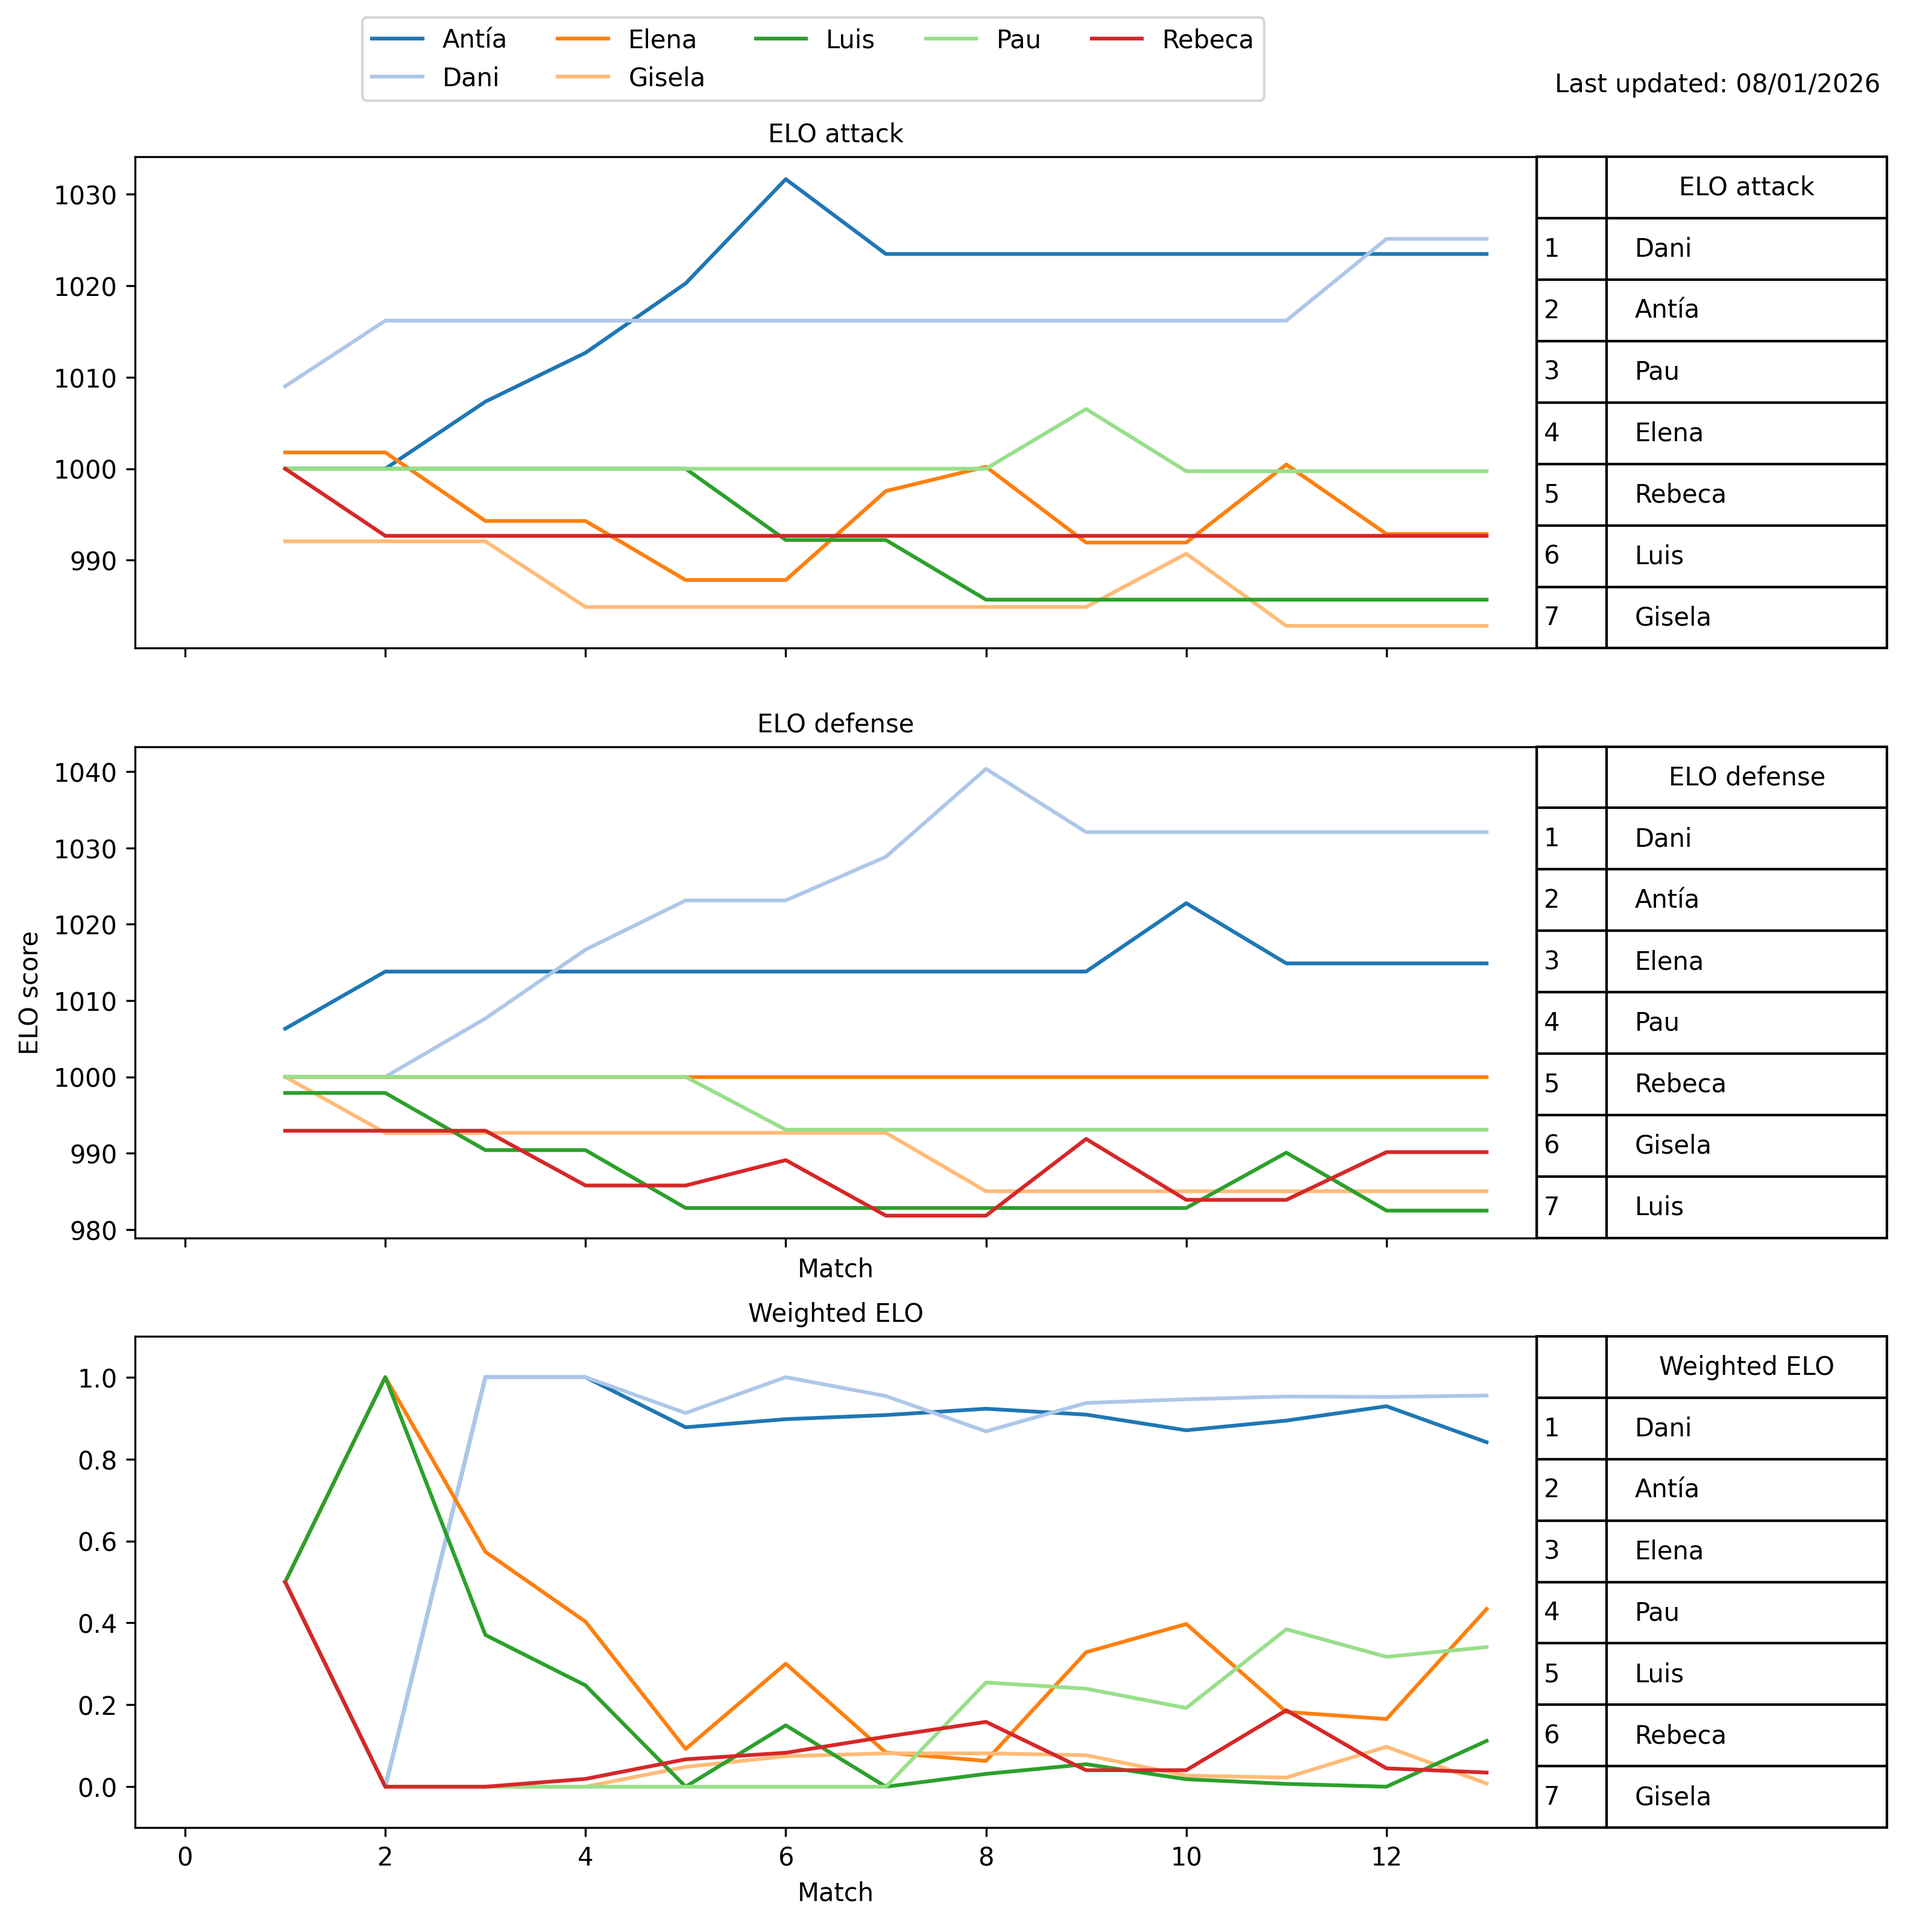
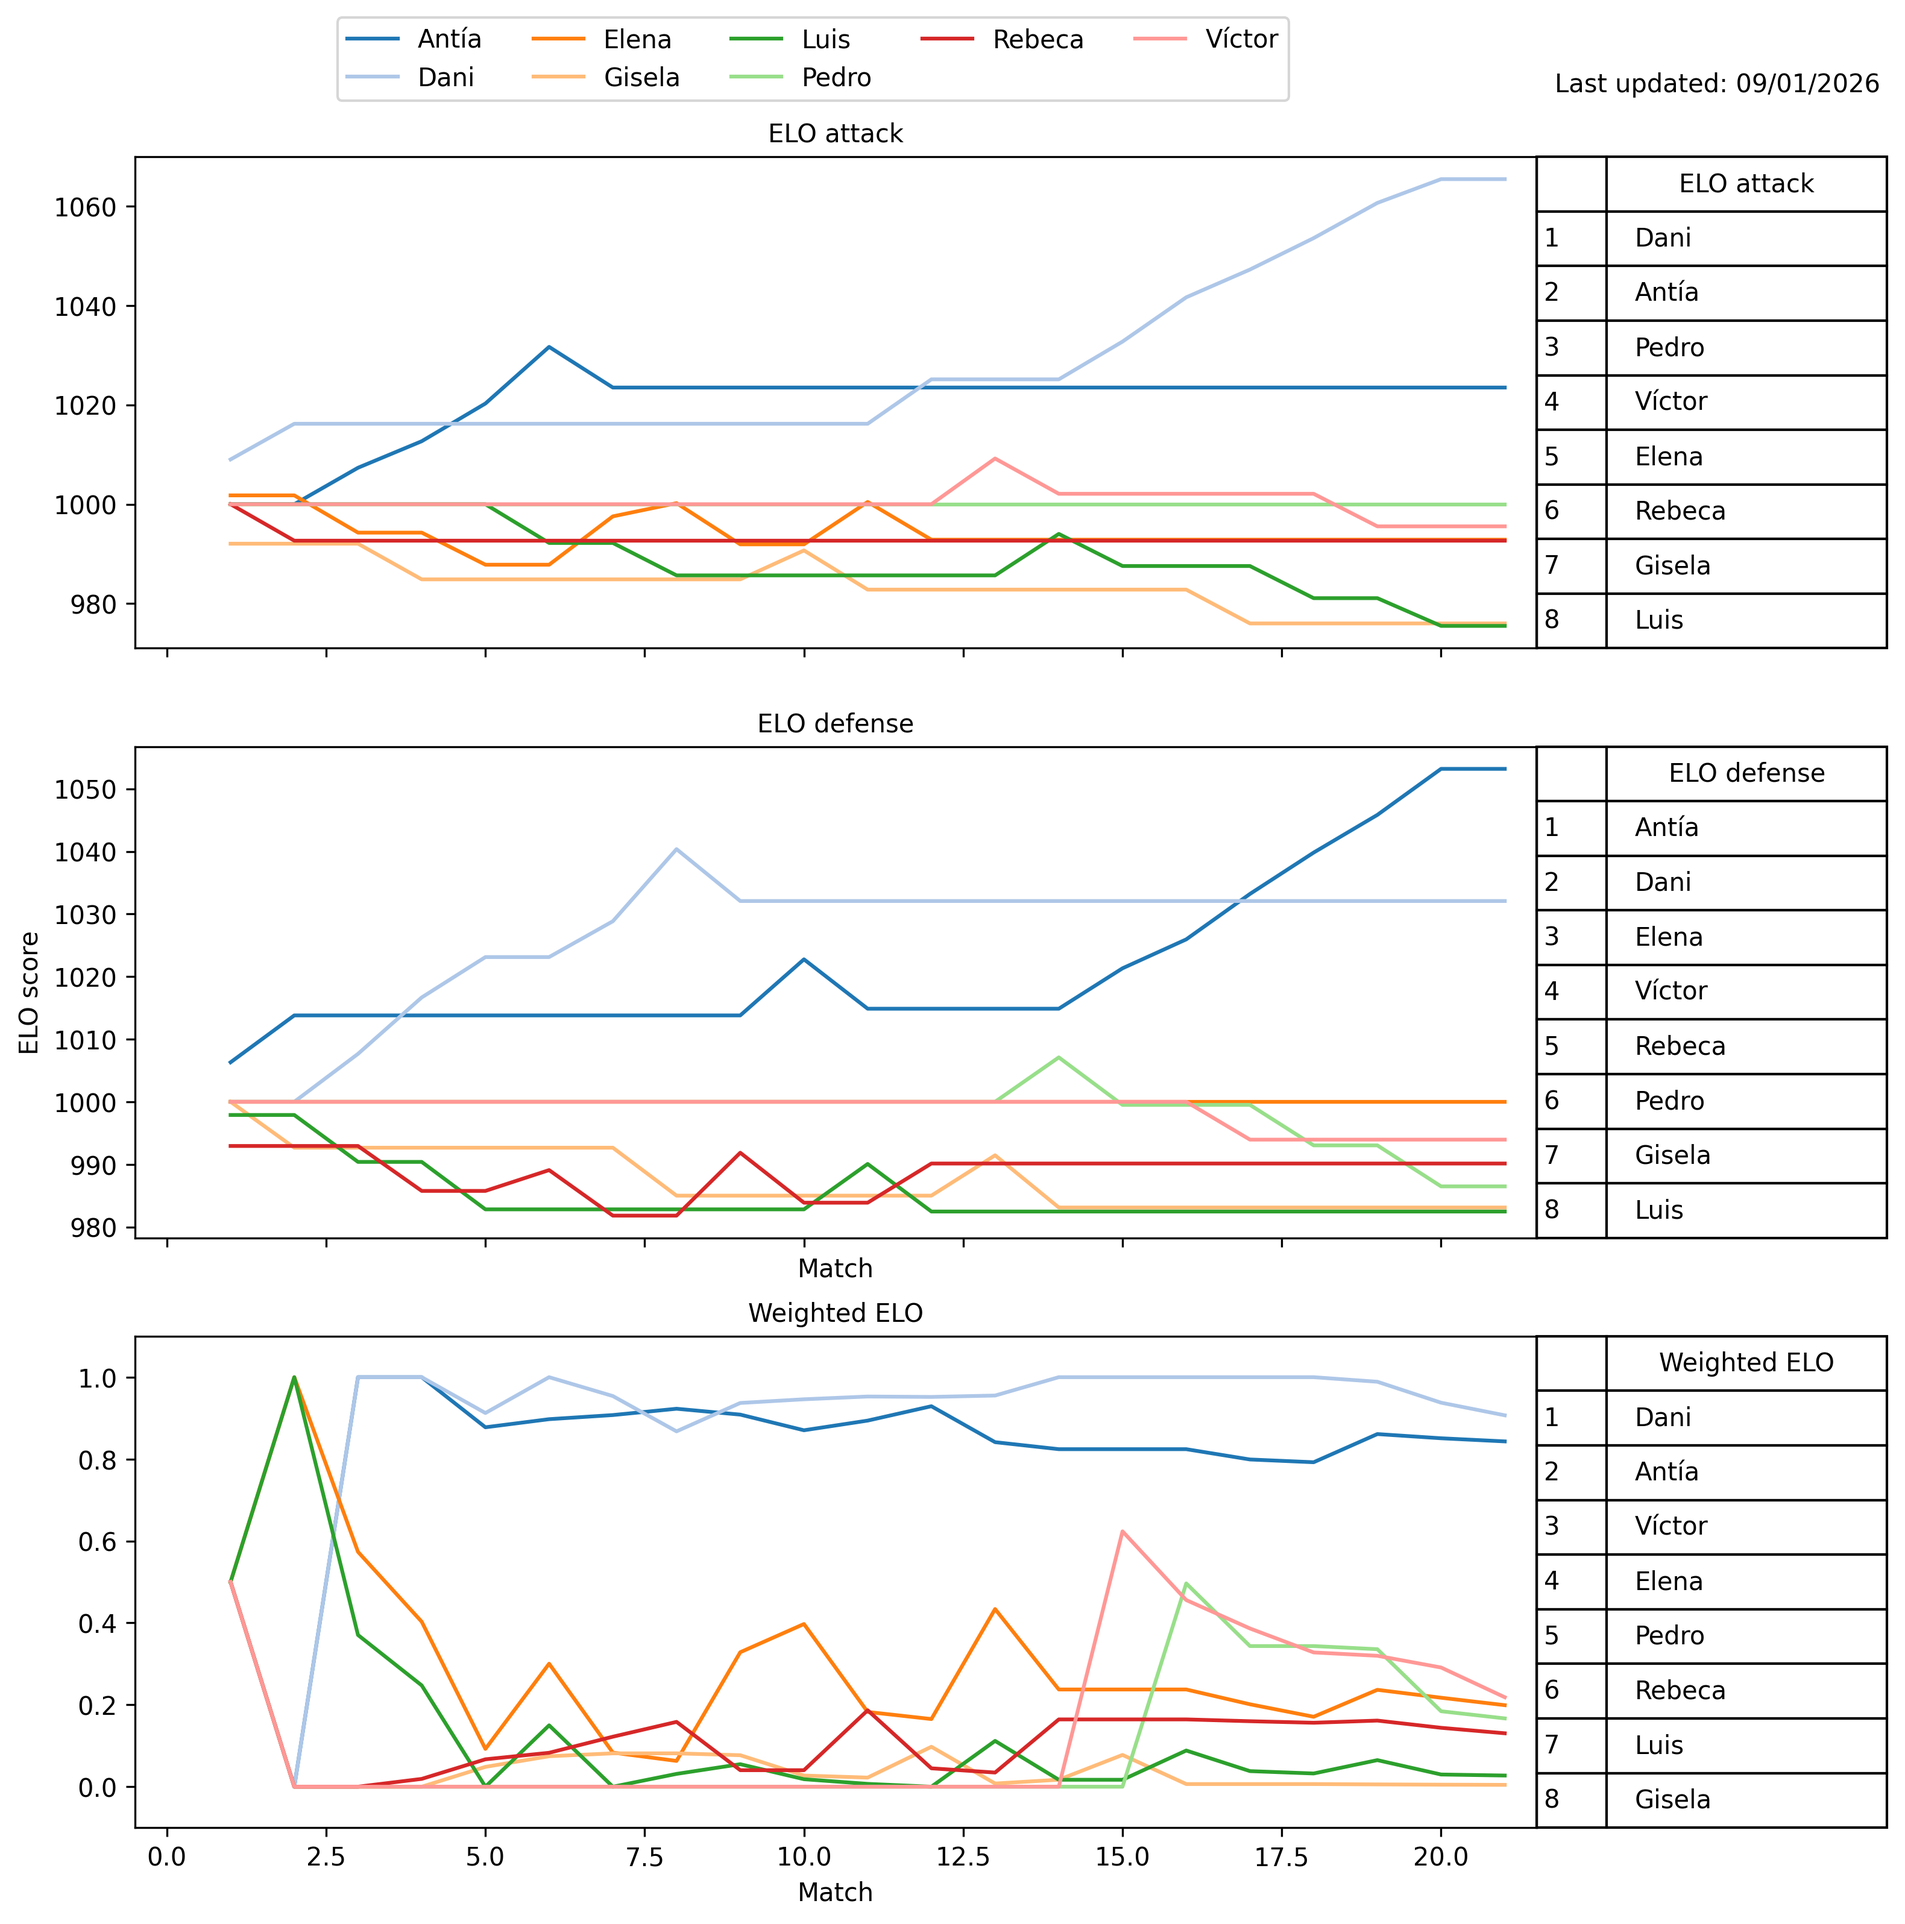
Updated to Matchday 3,

diff --git a/results/winplayed_stats.html b/results/winplayed_stats.html
@@ -1,49 +1,54 @@
 <style type="text/css">
 </style>
-<table id="T_baad5">
-  <caption>Games won / Games played (Matchday 13)</caption>
+<table id="T_01386">
+  <caption>Games won / Games played (Matchday 21)</caption>
   <thead>
     <tr>
       <th class="blank level0" >&nbsp;</th>
-      <th id="T_baad5_level0_col0" class="col_heading level0 col0" >0</th>
-      <th id="T_baad5_level0_col1" class="col_heading level0 col1" >1</th>
+      <th id="T_01386_level0_col0" class="col_heading level0 col0" >0</th>
+      <th id="T_01386_level0_col1" class="col_heading level0 col1" >1</th>
     </tr>
   </thead>
   <tbody>
     <tr>
-      <th id="T_baad5_level0_row0" class="row_heading level0 row0" >1</th>
-      <td id="T_baad5_row0_col0" class="data row0 col0" >Dani</td>
-      <td id="T_baad5_row0_col1" class="data row0 col1" >0.89</td>
+      <th id="T_01386_level0_row0" class="row_heading level0 row0" >1</th>
+      <td id="T_01386_row0_col0" class="data row0 col0" >Dani</td>
+      <td id="T_01386_row0_col1" class="data row0 col1" >0.93</td>
     </tr>
     <tr>
-      <th id="T_baad5_level0_row1" class="row_heading level0 row1" >2</th>
-      <td id="T_baad5_row1_col0" class="data row1 col0" >Antía</td>
-      <td id="T_baad5_row1_col1" class="data row1 col1" >0.78</td>
+      <th id="T_01386_level0_row1" class="row_heading level0 row1" >2</th>
+      <td id="T_01386_row1_col0" class="data row1 col0" >Antía</td>
+      <td id="T_01386_row1_col1" class="data row1 col1" >0.87</td>
     </tr>
     <tr>
-      <th id="T_baad5_level0_row2" class="row_heading level0 row2" >3</th>
-      <td id="T_baad5_row2_col0" class="data row2 col0" >Elena</td>
-      <td id="T_baad5_row2_col1" class="data row2 col1" >0.44</td>
+      <th id="T_01386_level0_row2" class="row_heading level0 row2" >3</th>
+      <td id="T_01386_row2_col0" class="data row2 col0" >Elena</td>
+      <td id="T_01386_row2_col1" class="data row2 col1" >0.44</td>
     </tr>
     <tr>
-      <th id="T_baad5_level0_row3" class="row_heading level0 row3" >4</th>
-      <td id="T_baad5_row3_col0" class="data row3 col0" >Rebeca</td>
-      <td id="T_baad5_row3_col1" class="data row3 col1" >0.38</td>
+      <th id="T_01386_level0_row3" class="row_heading level0 row3" >4</th>
+      <td id="T_01386_row3_col0" class="data row3 col0" >Rebeca</td>
+      <td id="T_01386_row3_col1" class="data row3 col1" >0.38</td>
     </tr>
     <tr>
-      <th id="T_baad5_level0_row4" class="row_heading level0 row4" >5</th>
-      <td id="T_baad5_row4_col0" class="data row4 col0" >Pau</td>
-      <td id="T_baad5_row4_col1" class="data row4 col1" >0.33</td>
+      <th id="T_01386_level0_row4" class="row_heading level0 row4" >5</th>
+      <td id="T_01386_row4_col0" class="data row4 col0" >Luis</td>
+      <td id="T_01386_row4_col1" class="data row4 col1" >0.25</td>
     </tr>
     <tr>
-      <th id="T_baad5_level0_row5" class="row_heading level0 row5" >6</th>
-      <td id="T_baad5_row5_col0" class="data row5 col0" >Luis</td>
-      <td id="T_baad5_row5_col1" class="data row5 col1" >0.25</td>
+      <th id="T_01386_level0_row5" class="row_heading level0 row5" >6</th>
+      <td id="T_01386_row5_col0" class="data row5 col0" >Pedro</td>
+      <td id="T_01386_row5_col1" class="data row5 col1" >0.25</td>
     </tr>
     <tr>
-      <th id="T_baad5_level0_row6" class="row_heading level0 row6" >7</th>
-      <td id="T_baad5_row6_col0" class="data row6 col0" >Gisela</td>
-      <td id="T_baad5_row6_col1" class="data row6 col1" >0.17</td>
+      <th id="T_01386_level0_row6" class="row_heading level0 row6" >7</th>
+      <td id="T_01386_row6_col0" class="data row6 col0" >Víctor</td>
+      <td id="T_01386_row6_col1" class="data row6 col1" >0.25</td>
+    </tr>
+    <tr>
+      <th id="T_01386_level0_row7" class="row_heading level0 row7" >8</th>
+      <td id="T_01386_row7_col0" class="data row7 col0" >Gisela</td>
+      <td id="T_01386_row7_col1" class="data row7 col1" >0.22</td>
     </tr>
   </tbody>
 </table>
